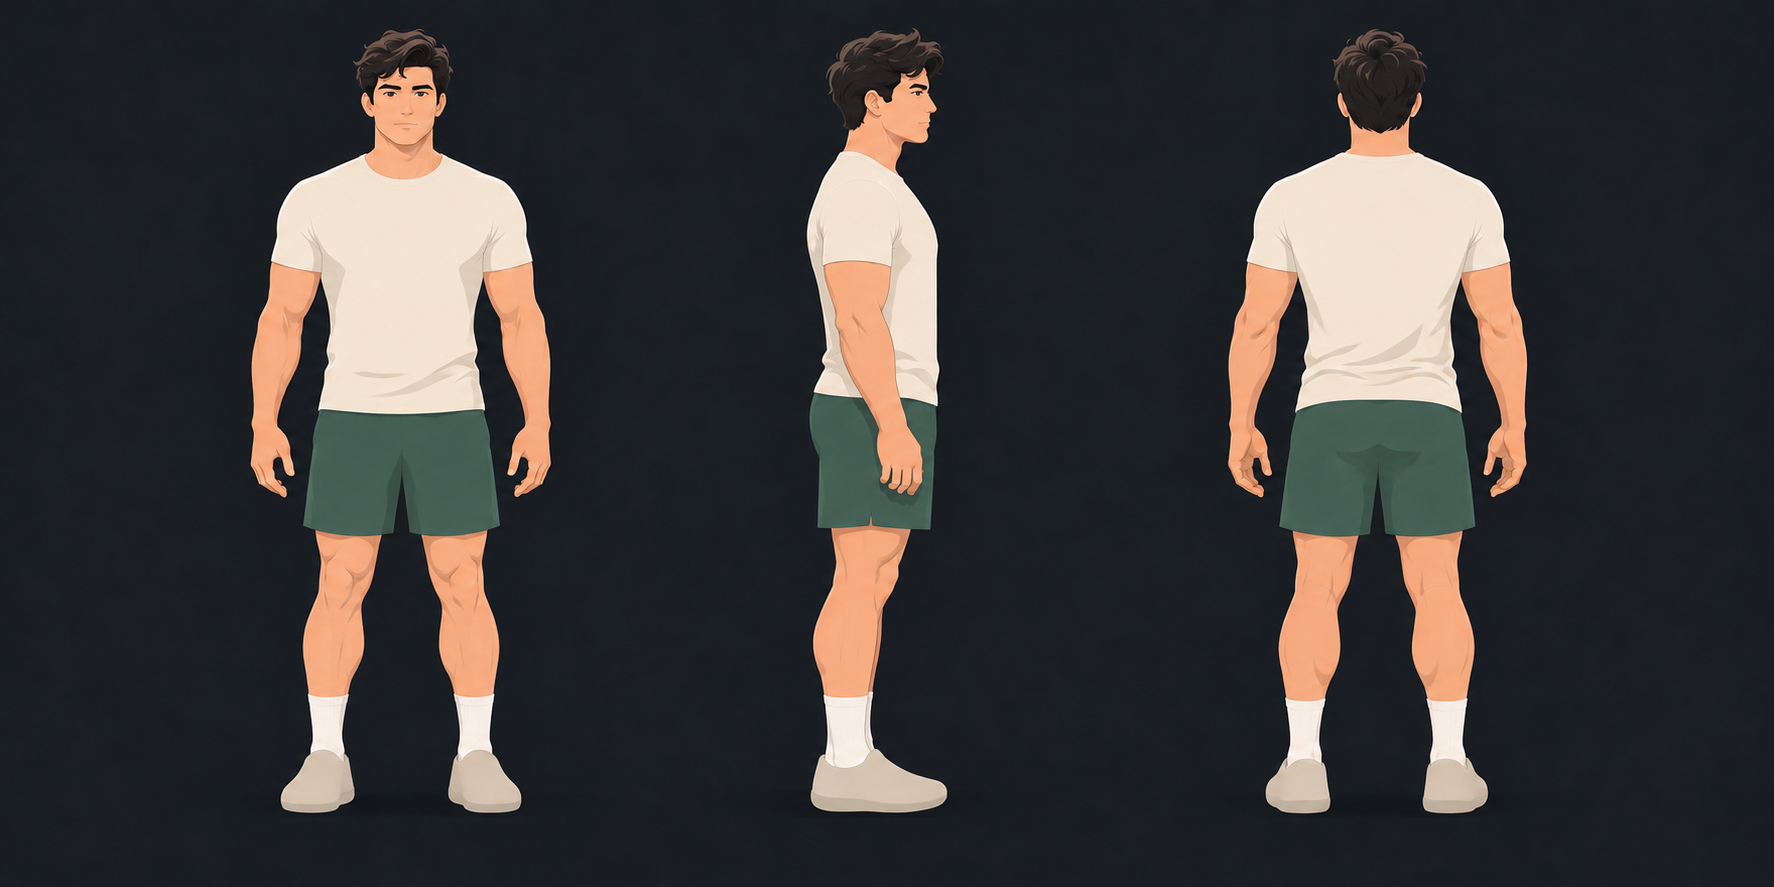
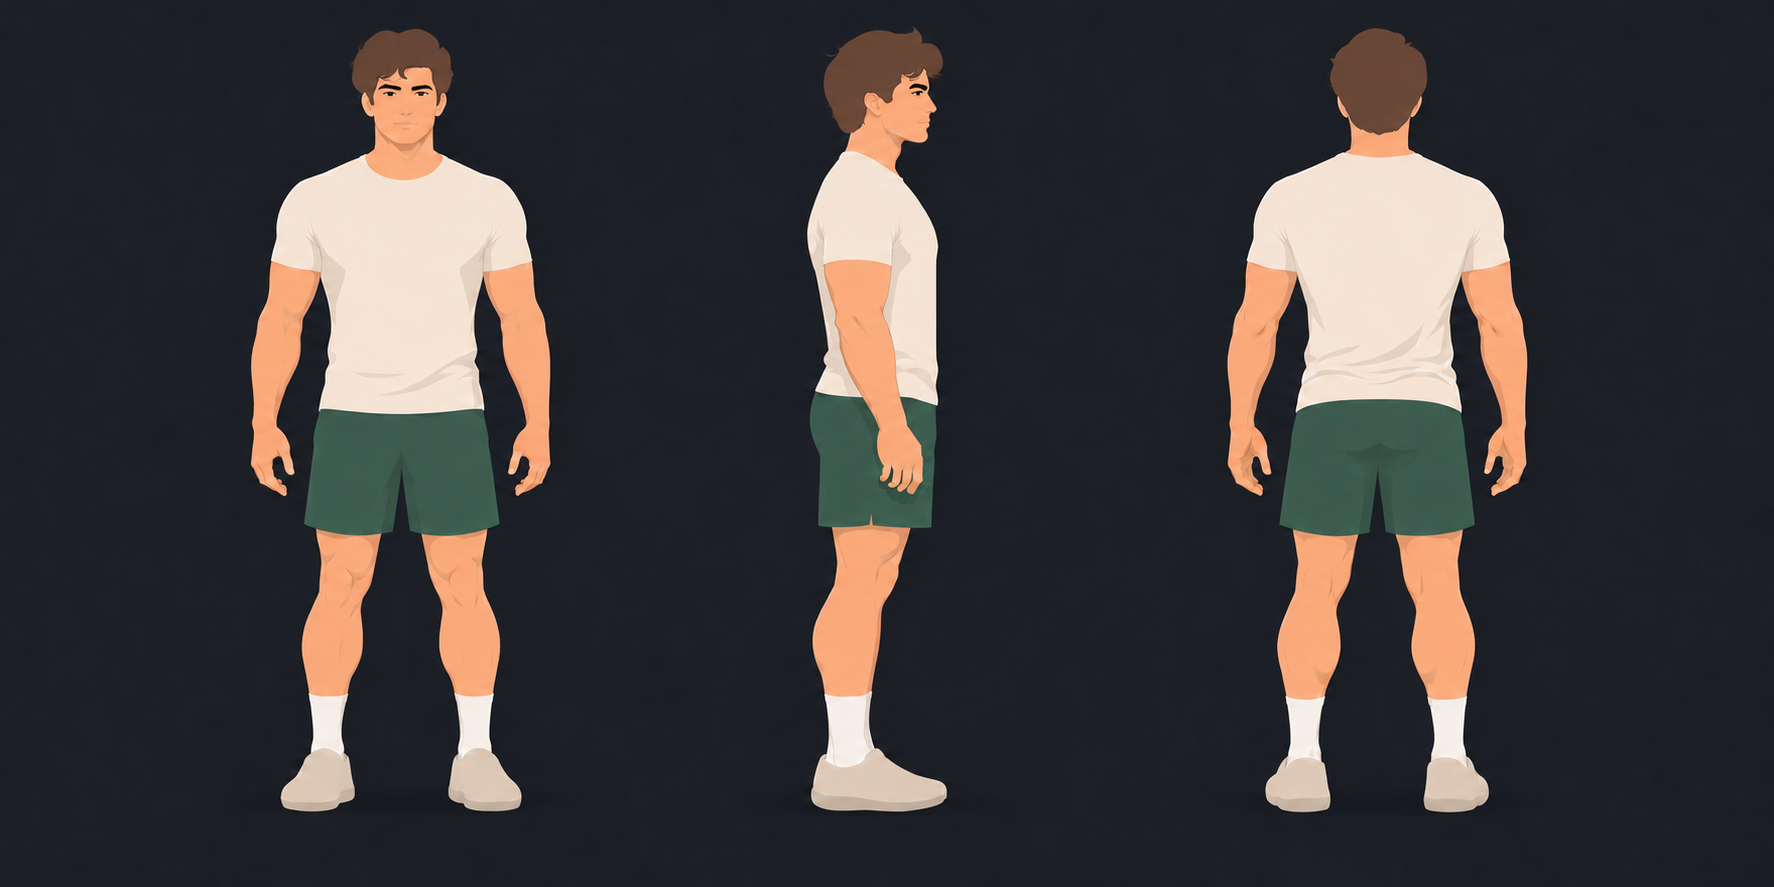
Refine hair in exercise generation references

diff --git a/art/exercise-images/README.md b/art/exercise-images/README.md
@@ -21,13 +21,15 @@ View: {{FRONT, SIDE, REAR, OR THREE-QUARTER}}
 
 Create one polished instructional illustration of the reference athlete doing
 the exercise. Keep his face, hair, build, off-white T-shirt, deep green shorts,
-and white socks. Render the shirt and shorts with smooth color, broad shading,
-and only the folds needed for the pose. Match the seed's plain, solid light warm
-gray slip-ons with smooth uppers and flat soles in the same color. Omit laces,
-eyelets, seams, stripes, logos, tread, and texture. Use the same near-black charcoal card
-background and softly cel-shaded 2D finish as the reference. Show the whole
-body and all equipment, centered with generous padding, on a wide 2:1 canvas.
-Choose a clear, anatomically correct key position.
+and white socks. Match the seed's hairstyle with broad, matte chestnut-brown
+shapes and faint shading at overlaps. Omit highlights, streaks, and individual
+strands. Render the shirt and shorts with smooth color, broad shading, and only
+the folds needed for the pose. Match the seed's plain, solid light warm gray
+slip-ons with smooth uppers and flat soles in the same color. Omit laces,
+eyelets, seams, stripes, logos, tread, and texture. Use the same near-black
+charcoal card background and softly cel-shaded 2D finish as the reference. Show
+the whole body and all equipment, centered with generous padding, on a wide 2:1
+canvas. Choose a clear, anatomically correct key position.
 
 No text, labels, logos, watermark, scenery, panel borders, motion trail,
 cropped body parts, extra limbs, or extra equipment. Do not change the outfit,
@@ -89,10 +91,10 @@ names. User-uploaded pictures keep priority over bundled illustrations.
 Use `style-seed.png` as the first reference, `style-seed-female.png` as the
 female character reference, and the original exercise illustration as the
 pose and equipment reference. Preserve the exercise, view, outfit, background,
-and rendering style. The female athlete has dark brown hair in a ponytail,
-an off-white T-shirt, deep green shorts, white socks, and the same plain gray
-slip-ons. Match the female seed's smooth fabric and plain shoes. Keep only the
-folds needed for the pose.
+and rendering style. The female athlete has matte chestnut-brown hair tied
+behind her head. The ponytail stays hidden in a straight-on front view. Match
+her off-white T-shirt, deep green shorts, white socks, and plain gray slip-ons.
+Keep only the folds needed for the pose.
 
 `female-variants.json` records every source, destination, exercise name, and
 full prompt from the built-in `image_gen` generation run. Normalize female
